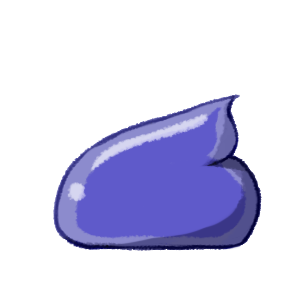
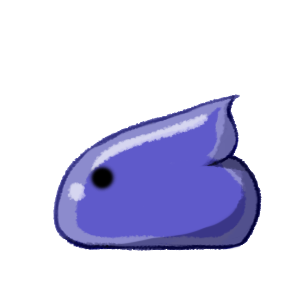
怪物動畫完成

Changed region(s): [[0.3, 0.54, 0.39, 0.66]]

diff --git a/Assets/Script/role/Spider.cs b/Assets/Script/role/Spider.cs
@@ -38,8 +38,16 @@ namespace com.DungeonPad
                         attacking = true;
                         GetComponent<Animator>().SetTrigger("Attack");
                     }
-                    GetComponent<Rigidbody2D>().velocity = Vector3.zero;
-                    GetComponent<Rigidbody2D>().angularDrag = 0;
+                    rigidbody.velocity = Vector3.zero;
+                    rigidbody.angularDrag = 0;
+                    if (MinDisPlayer().transform.position.x > transform.position.x)
+                    {
+                        transform.rotation = Quaternion.Euler(0, 0, 0);
+                    }
+                    if (MinDisPlayer().transform.position.x < transform.position.x)
+                    {
+                        transform.rotation = Quaternion.Euler(0, 180, 0);
+                    }
                     SpriteAnimator.SetBool("Stop", true);
                 }
                 else

diff --git a/Assets/Script/role/Slime.cs b/Assets/Script/role/Slime.cs
@@ -14,6 +14,8 @@ namespace com.DungeonPad
         public SlimeBehavior slimeBehavior;
 
         bool stoping = false;
+        public Animator SpriteAnimator;
+
         void Start()
         {
             ReCD();
@@ -38,12 +40,14 @@ namespace com.DungeonPad
                     }
                     rigidbody.velocity = Vector3.zero;
                     rigidbody.angularDrag = 0;
+                    SpriteAnimator.SetBool("Stop", true);
                 }
                 else
                 {
                     Move();
                     Stuck(1, 1);
                     stoping = false;
+                    SpriteAnimator.SetBool("Stop", false);
                 }
             }
             ArmorBar.gameObject.SetActive(Armor > 0);
